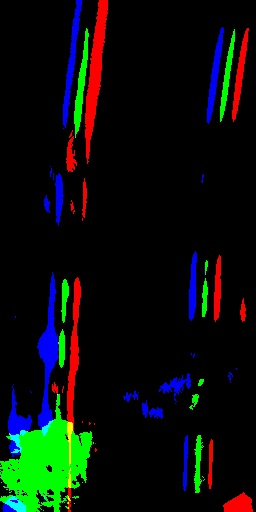
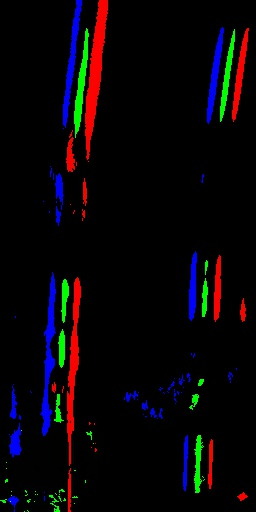
Combine thresholds meaningfully

diff --git a/pipeline.py b/pipeline.py
@@ -20,12 +20,13 @@ def warp(img, src=np.float32([[596,450],[688,450],[1048,681],[276,681]])):
     return warped, M
 
 def thresh_r(img):
-    """Apply a binary thresholds to the R channel"""
+    """Apply a binary threshold to the R channel"""
     b, g, r = cv2.split(img)
     binary_r = cv2.adaptiveThreshold(r, 255, cv2.ADAPTIVE_THRESH_MEAN_C, cv2.THRESH_BINARY, 255, -70)
-    return binary_r
+    return cleanup_threshold(binary_r)
 
 def thresh_sobel(img):
+    """Apply a binary threshold to the sobel operator"""
     b, g, r = cv2.split(img)
     sobelx = cv2.Sobel(cv2.blur(r, (25,17)), cv2.CV_64F, 1, 0)
     min_sobel = np.min(sobelx)
@@ -34,7 +35,28 @@ def thresh_sobel(img):
     scaled_sobel_r = 255-scaled_sobel_l
     sobel_binary_l = cv2.adaptiveThreshold(scaled_sobel_l, 255, cv2.ADAPTIVE_THRESH_MEAN_C, cv2.THRESH_BINARY, 255, -30)
     sobel_binary_r = cv2.adaptiveThreshold(scaled_sobel_r, 255, cv2.ADAPTIVE_THRESH_MEAN_C, cv2.THRESH_BINARY, 255, -30)
-    return sobel_binary_l, sobel_binary_r
+    return cleanup_threshold(sobel_binary_l), cleanup_threshold(sobel_binary_r)
+
+def cleanup_threshold(binary):
+    """Cleans up a given thresholded channel. This assumes sharp lane markings"""
+    height, width = binary.shape[:2]
+    trans_m_l = np.float32([[1, 0, 12], [0, 1, 0]])
+    trans_m_r = np.float32([[1, 0, -12], [0, 1, 0]])
+    shifted_binary_l = cv2.warpAffine(binary, trans_m_l, (width, height))
+    shifted_binary_r = cv2.warpAffine(binary, trans_m_r, (width, height))
+    return binary-shifted_binary_l-shifted_binary_r
+
+def combine_thresholds(binary_r, binary_sobel_l, binary_sobel_r):
+    """Combine the calculated thresholds"""
+    height, width = binary_r.shape[:2]
+    trans_m_l = np.float32([[1, 0, 12], [0, 1, 0]])
+    shifted_sobel_l = cv2.warpAffine(binary_sobel_l, trans_m_l, (width, height))
+    trans_m_r = np.float32([[1, 0, -12], [0, 1, 0]])
+    shifted_sobel_r = cv2.warpAffine(binary_sobel_r, trans_m_r, (width, height))
+    combined = (shifted_sobel_l//3+shifted_sobel_r//3+binary_r//3)
+    res = np.zeros_like(combined)
+    res[combined>150]=255
+    return res
 
 def load_calibration_params():
     cal_file = open('calibration.pkl','rb')
@@ -57,5 +79,7 @@ def output_test_images():
         binary_sobel_l, binary_sobel_r = thresh_sobel(warped)
         thresholded = cv2.merge([binary_sobel_l, binary_r, binary_sobel_r])
         cv2.imwrite('output_images/thresholded_'+os.path.basename(fname), thresholded)
+        combined = combine_thresholds(binary_r, binary_sobel_l, binary_sobel_r)
+        cv2.imwrite('output_images/combined_'+os.path.basename(fname), combined)
 
 output_test_images()
